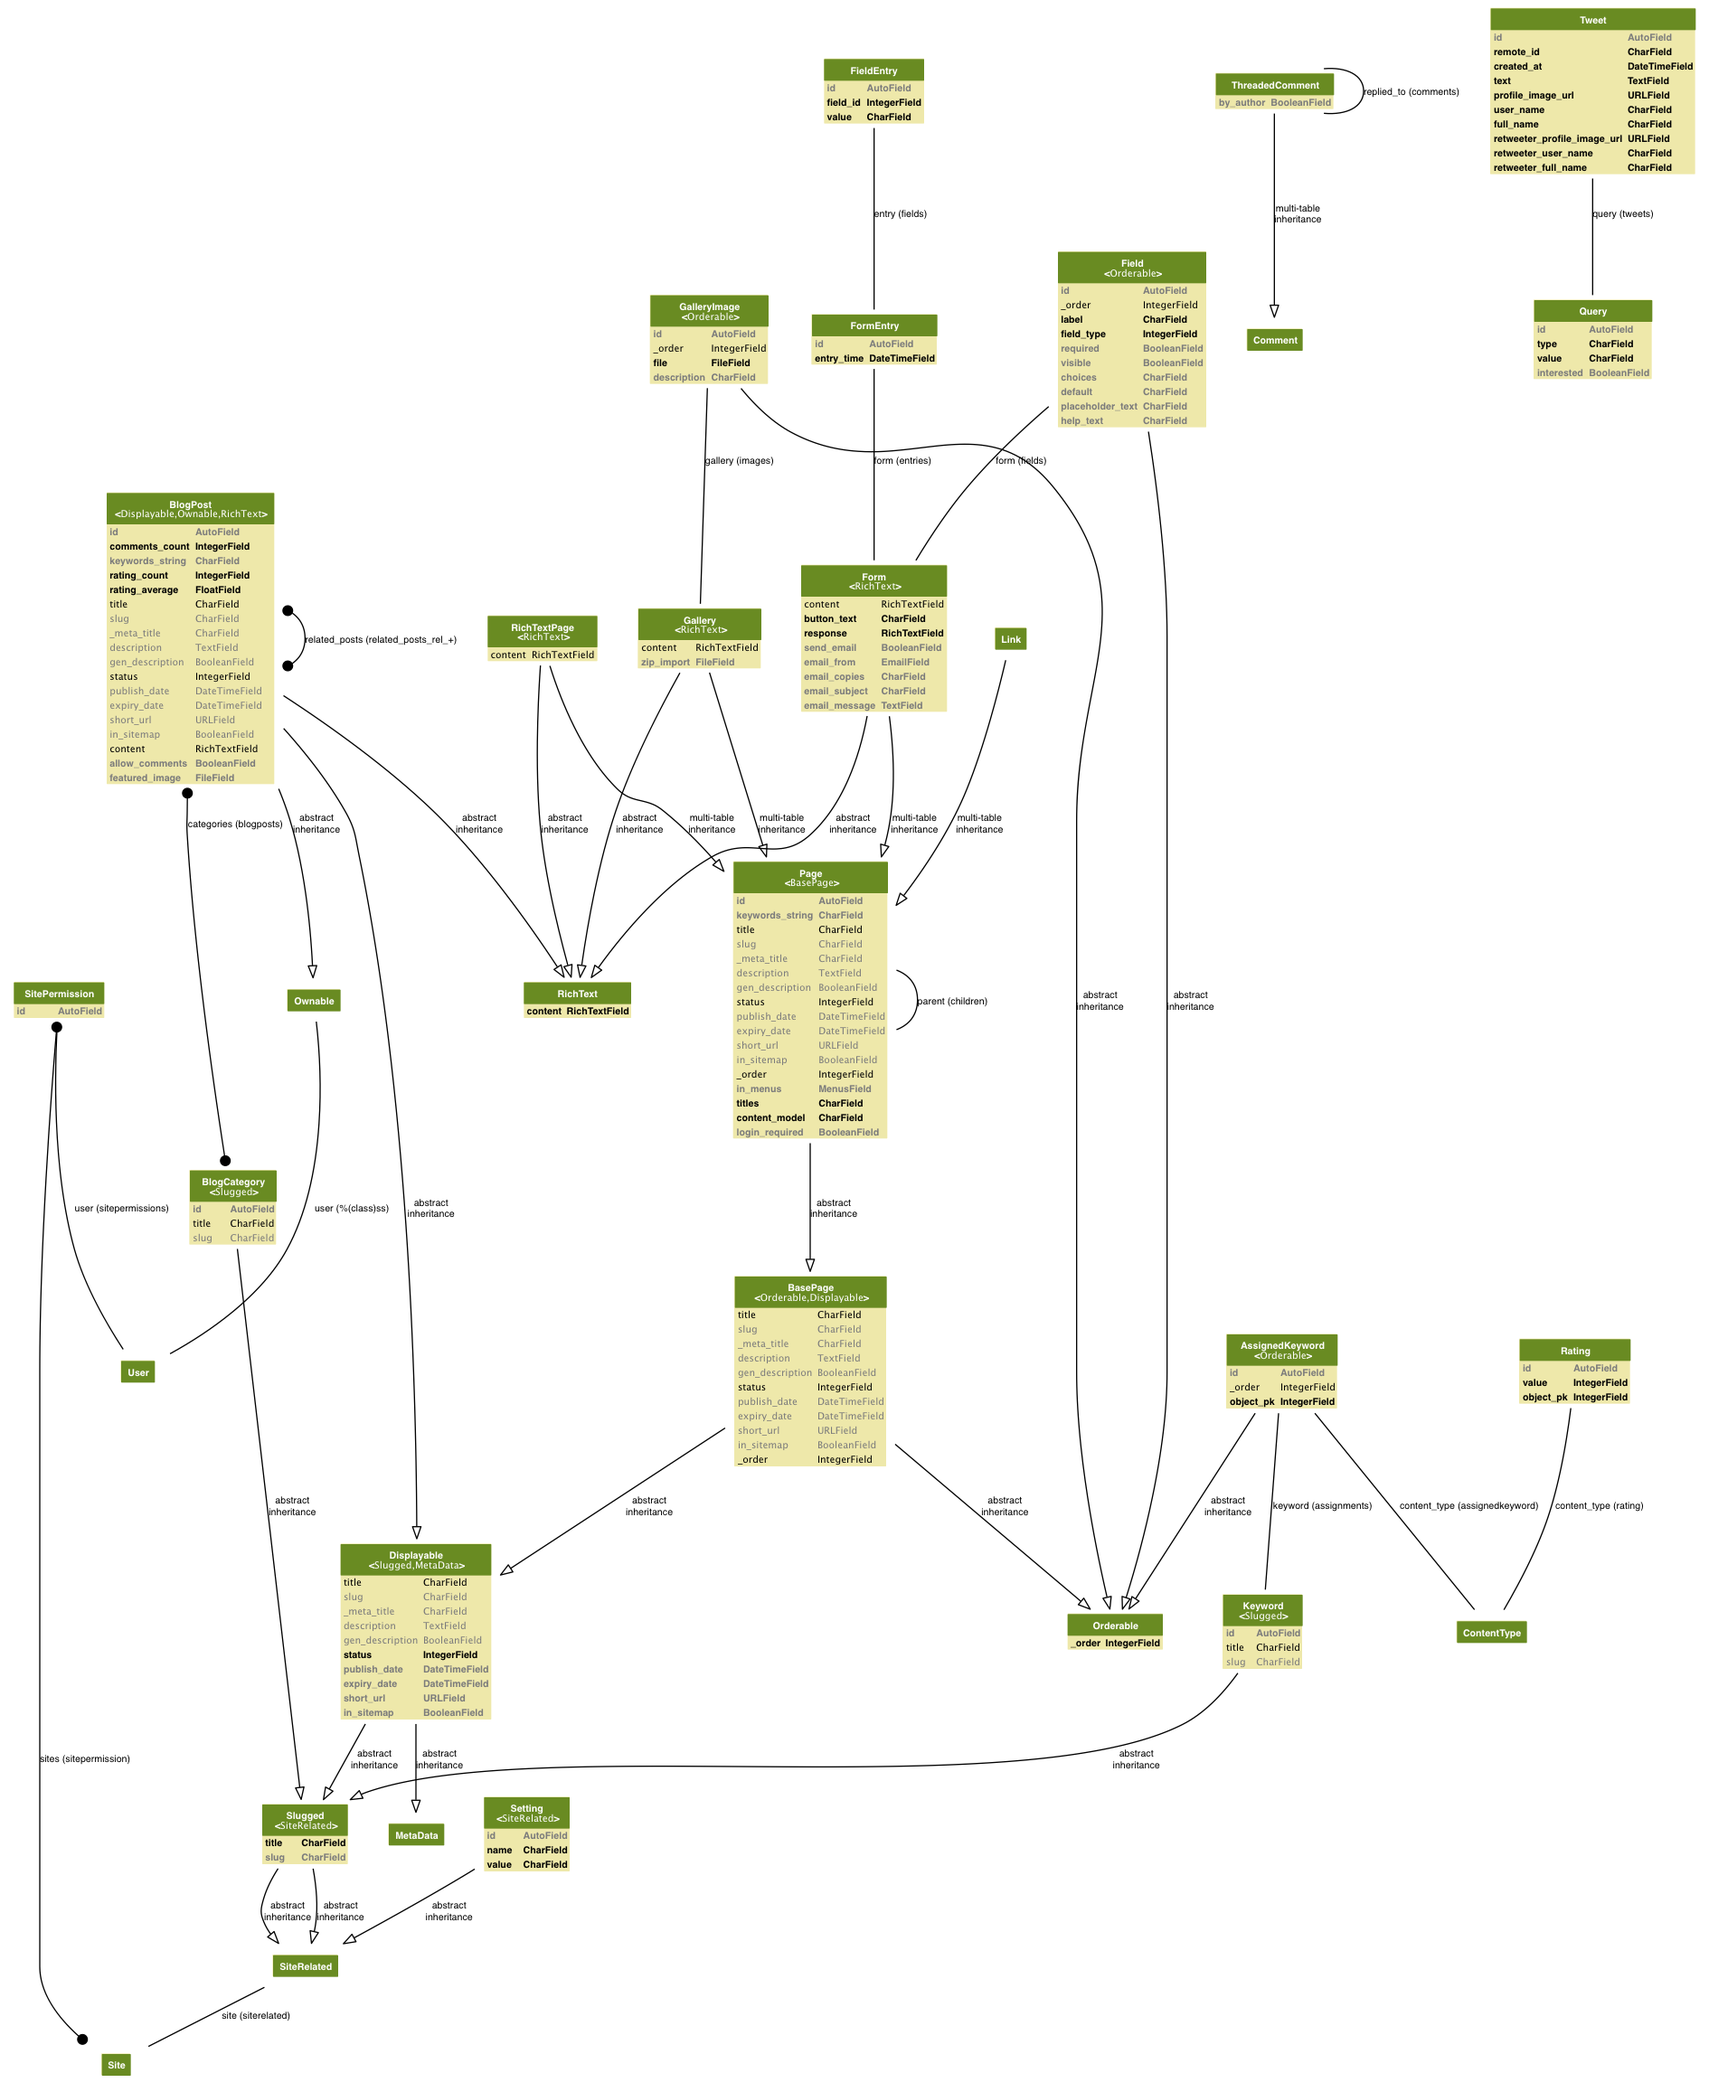
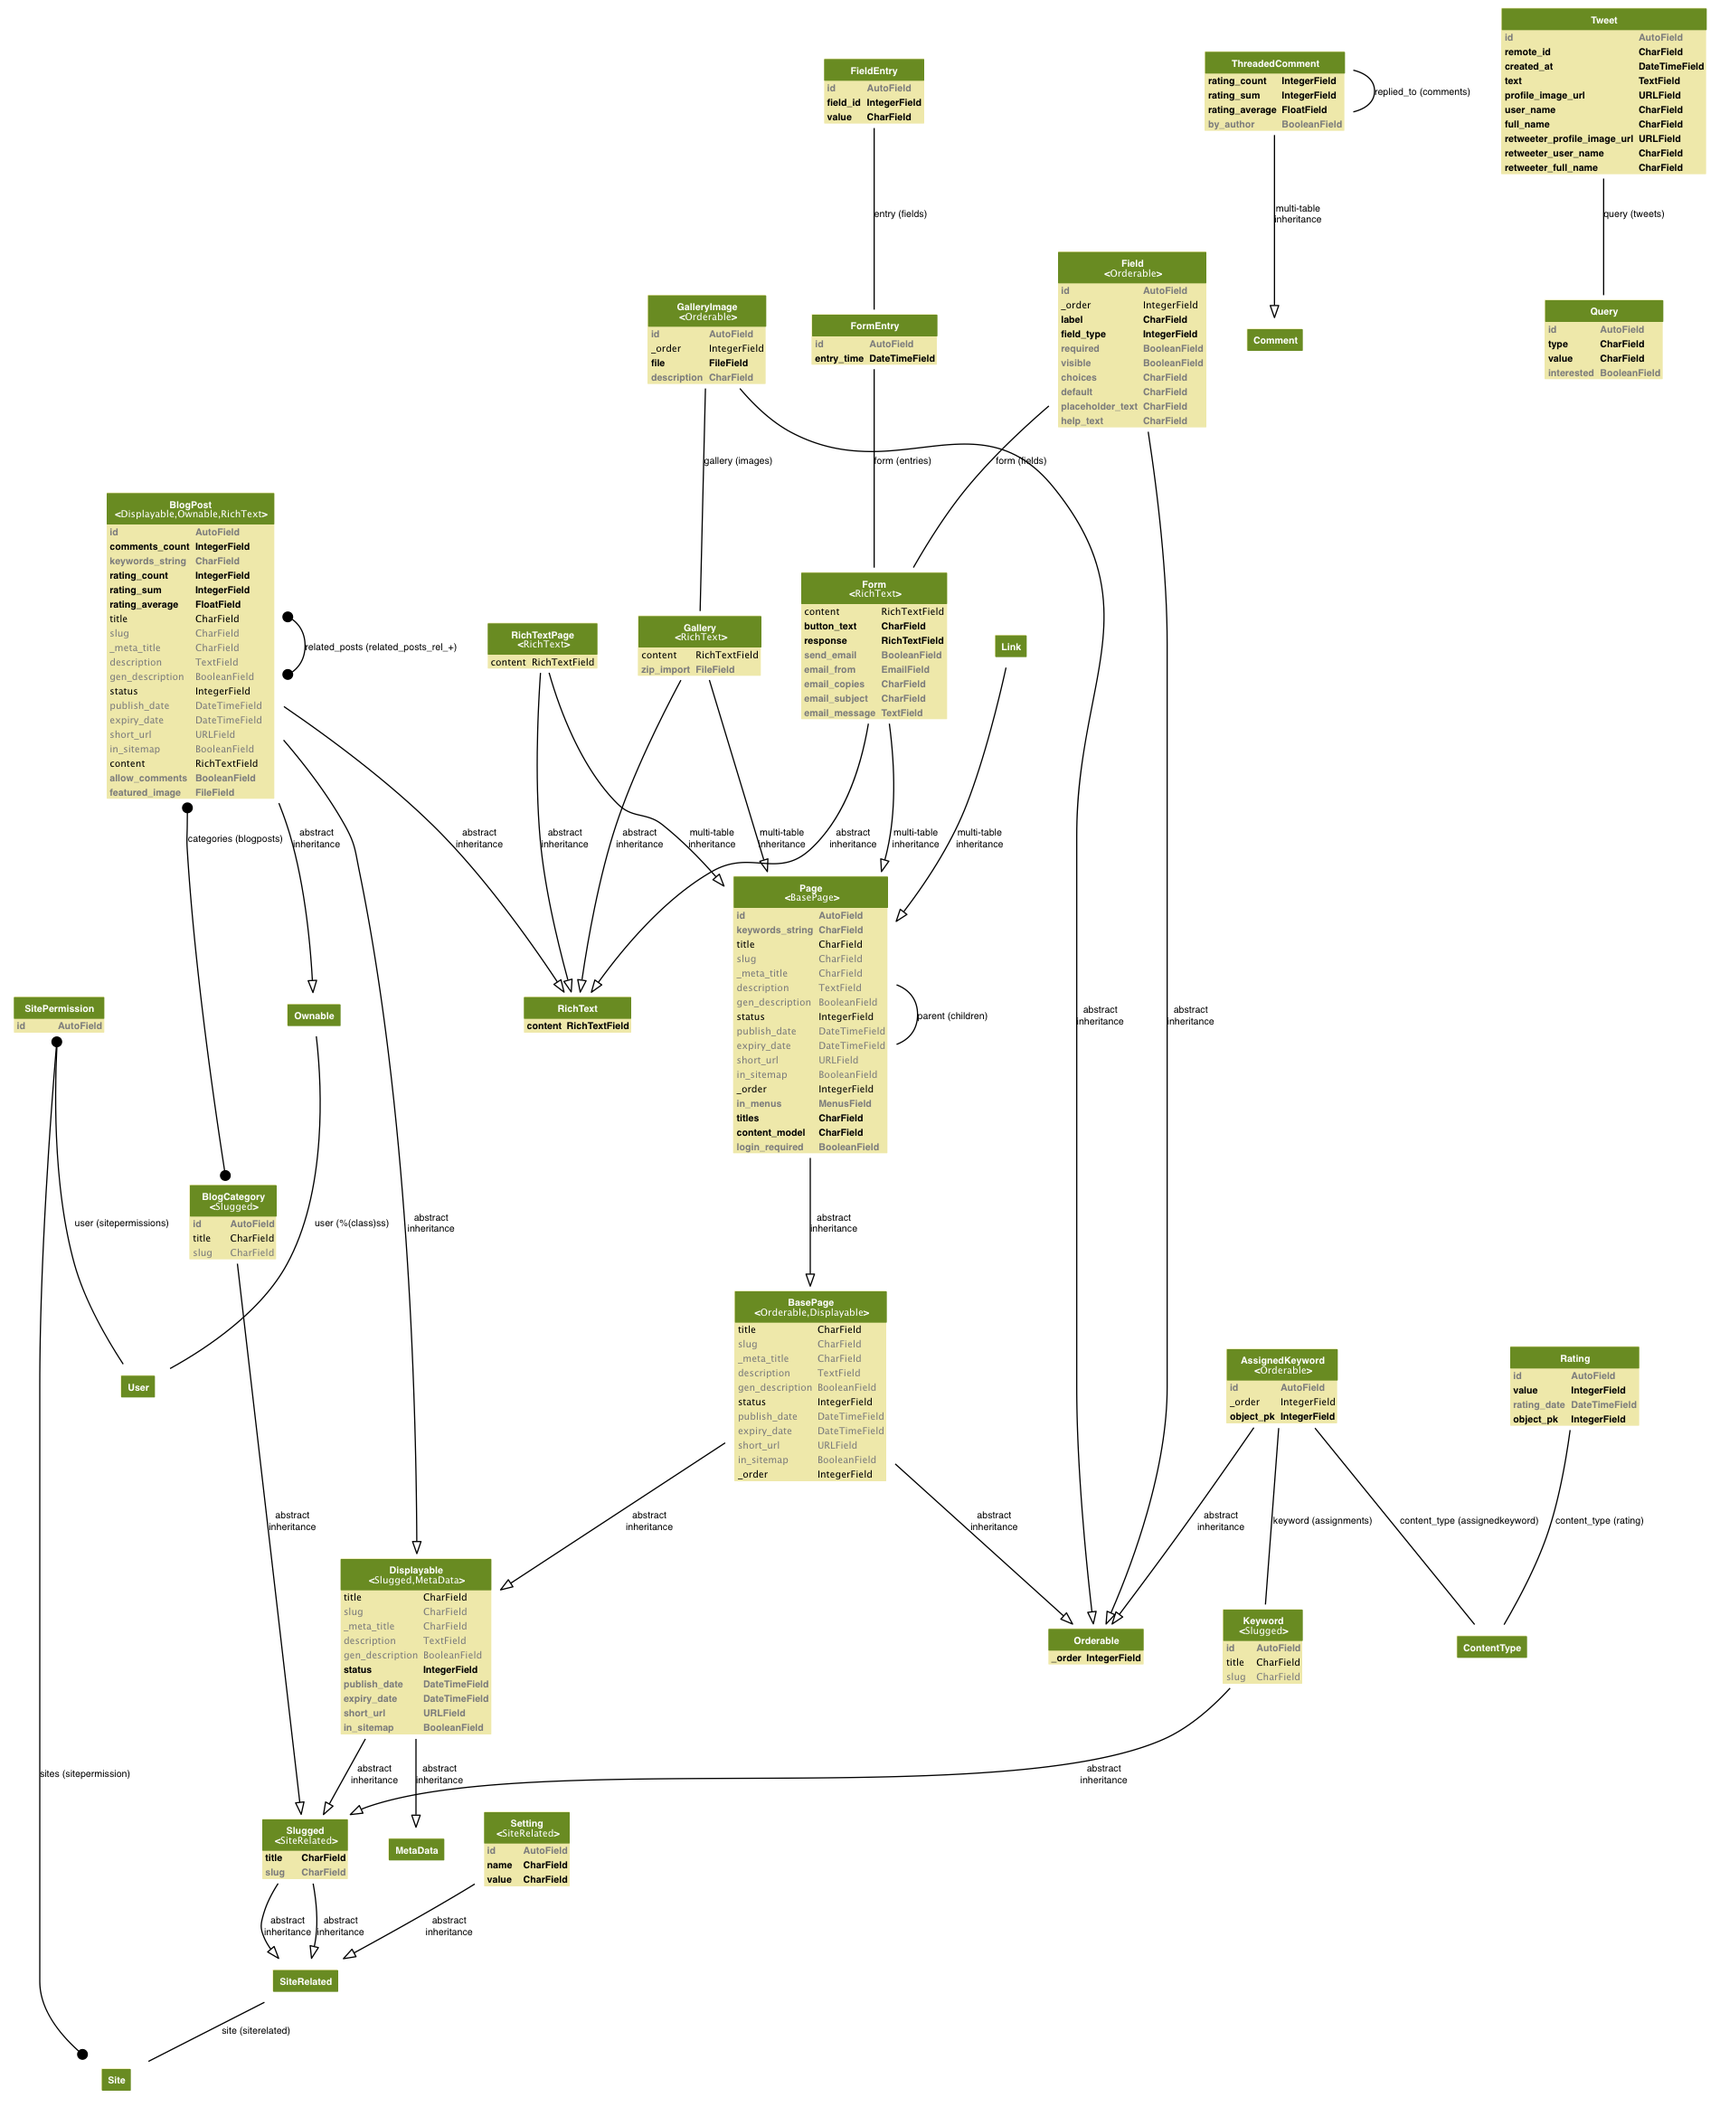
Update automated changelog, settings docs, model graphs.

diff --git a/docs/settings.rst b/docs/settings.rst
@@ -175,6 +175,13 @@ If ``True``, comments that have ``is_public`` unchecked will still be displayed,
 
 Default: ``True``
 
+``COMMENTS_USE_RATINGS``
+------------------------
+
+If ``True``, comments can be rated.
+
+Default: ``True``
+
 ``COMMENT_FILTER``
 ------------------
 
@@ -322,19 +329,12 @@ A sequence of IDs from the ``PAGE_MENU_TEMPLATES`` setting that defines the defa
 
 Default: ``None``
 
-``RATINGS_MAX``
----------------
+``RATINGS_RANGE``
+-----------------
 
-Max value for a rating.
+A sequence of integers that are valid ratings.
 
-Default: ``5``
-
-``RATINGS_MIN``
----------------
-
-Min value for a rating.
-
-Default: ``1``
+Default: ``[1, 2, 3, 4, 5]``
 
 ``RICHTEXT_ALLOWED_ATTRIBUTES``
 -------------------------------
@@ -483,7 +483,7 @@ Default: ``4``
 
 Sequence of setting names available within templates.
 
-Default: ``('ACCOUNTS_VERIFICATION_REQUIRED', 'ADMIN_MEDIA_PREFIX', 'BLOG_BITLY_USER', 'BLOG_BITLY_KEY', 'BLOG_USE_FEATURED_IMAGE', 'COMMENTS_DISQUS_SHORTNAME', 'COMMENTS_NUM_LATEST', 'COMMENTS_DISQUS_API_PUBLIC_KEY', 'COMMENTS_DISQUS_API_SECRET_KEY', 'DEV_SERVER', 'FORMS_USE_HTML5', 'GRAPPELLI_INSTALLED', 'GOOGLE_ANALYTICS_ID', 'JQUERY_FILENAME', 'LOGIN_URL', 'LOGOUT_URL', 'SITE_TITLE', 'SITE_TAGLINE', 'RATINGS_MAX')``
+Default: ``('ACCOUNTS_VERIFICATION_REQUIRED', 'ADMIN_MEDIA_PREFIX', 'BLOG_BITLY_USER', 'BLOG_BITLY_KEY', 'BLOG_USE_FEATURED_IMAGE', 'COMMENTS_DISQUS_SHORTNAME', 'COMMENTS_NUM_LATEST', 'COMMENTS_DISQUS_API_PUBLIC_KEY', 'COMMENTS_DISQUS_API_SECRET_KEY', 'COMMENTS_USE_RATINGS', 'DEV_SERVER', 'FORMS_USE_HTML5', 'GRAPPELLI_INSTALLED', 'GOOGLE_ANALYTICS_ID', 'JQUERY_FILENAME', 'LOGIN_URL', 'LOGOUT_URL', 'SITE_TITLE', 'SITE_TAGLINE')``
 
 ``THUMBNAILS_DIR_NAME``
 -----------------------
